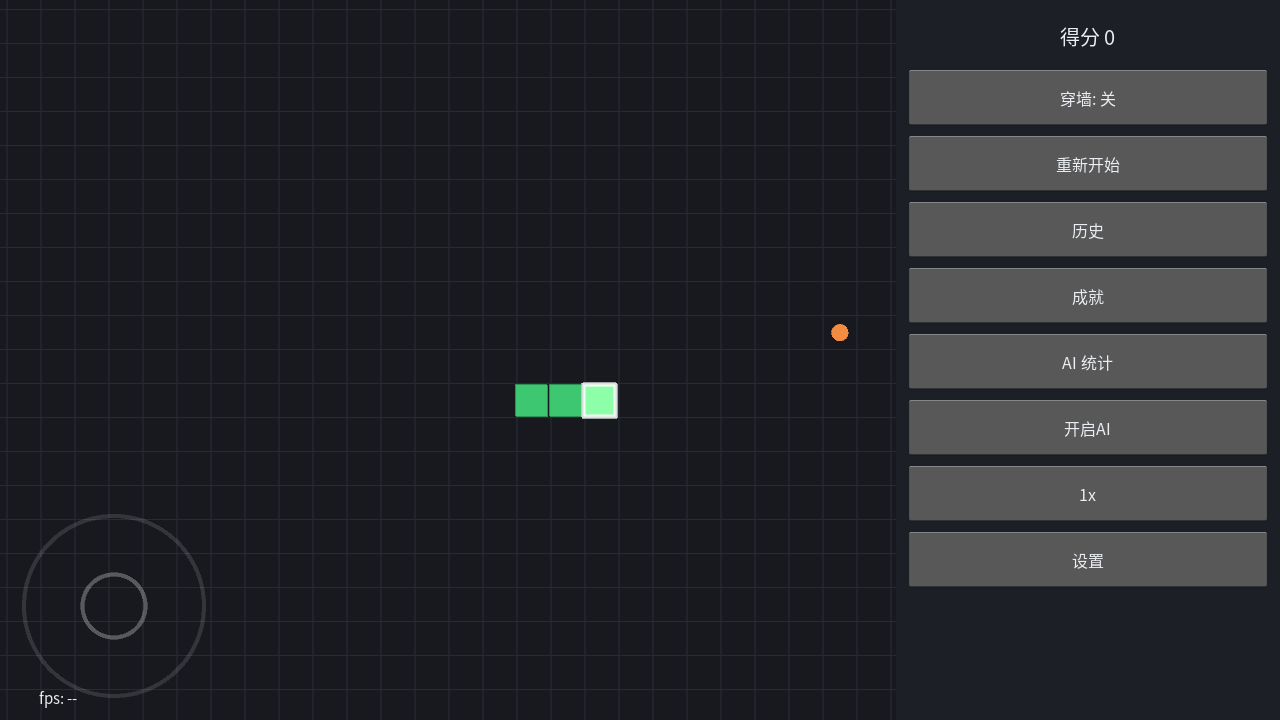
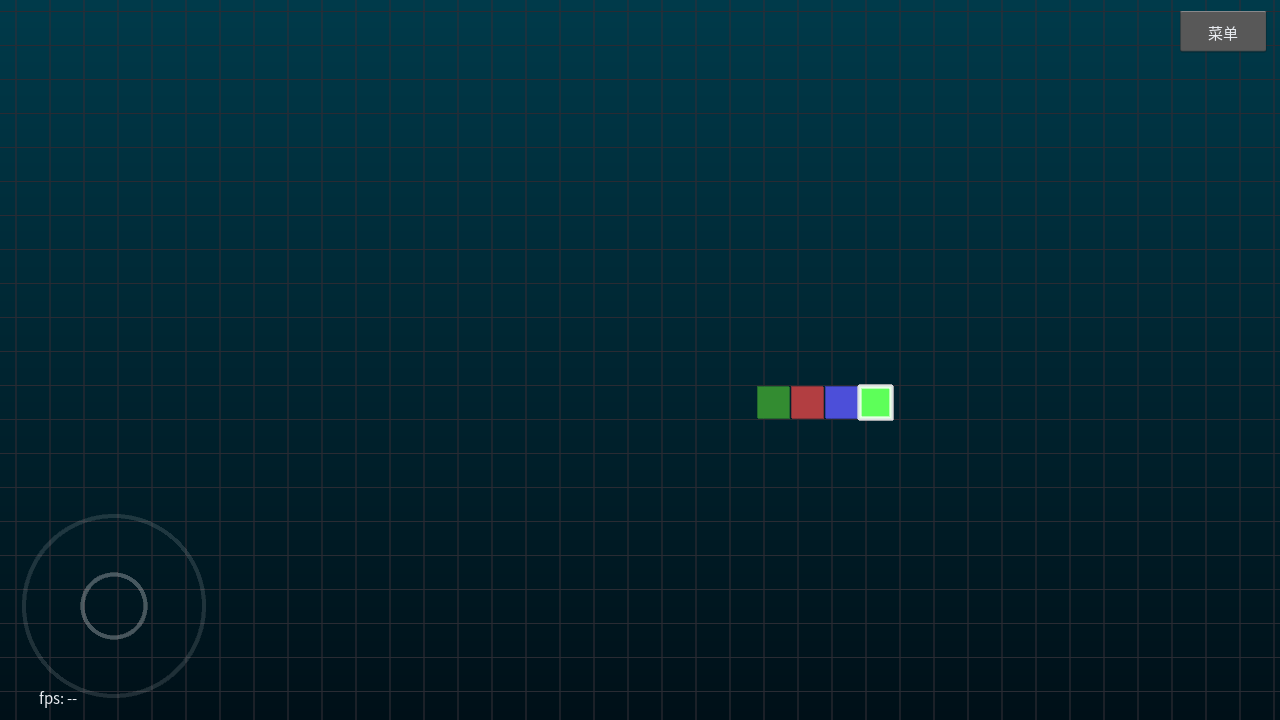
Immersive UI: smooth gradient texture, floating menu, view_scale setting

diff --git a/src/app/app.py b/src/app/app.py
@@ -52,6 +52,7 @@ from data.achievements import evaluate
 from view.confirm_dialog import ConfirmDialog
 from view.debug_overlay import DebugOverlay
 from view.fps_label import FpsLabel
+from view.menu import MenuButton, Scrim
 from view.replay_panel import ReplayPanel
 from view.stats_panel import StatsPanel
 from view.history_panel import HistoryPanel
@@ -103,6 +104,7 @@ class SnakeApp(App):
     confirm_shot = False
     replaypause_shot = False
     bg_demo = False
+    menu_shot = False
     theme_override: str | None = None
     font_override: float | None = None
 
@@ -163,7 +165,7 @@ class SnakeApp(App):
             self.session = AISession()
             self.game.tick_listeners.append(self._ai_tick)
         self.canvas_widget = GameCanvas(self.game)
-        self.canvas_widget.size_hint = (0.70, 1.0)
+        self.canvas_widget.size_hint = (1.0, 1.0)
         self.canvas_widget.pos_hint = {"x": 0, "y": 0}
         self.canvas_widget.on_direction = self._on_direction
 
@@ -176,11 +178,14 @@ class SnakeApp(App):
             on_ai=self._toggle_ai,
             on_speed=self._cycle_speed,
         )
-        self.panel.size_hint = (0.30, 1.0)
+        self.panel.size_hint = (0.34, 1.0)
         self.panel.pos_hint = {"right": 1, "y": 0}
+        self.panel.opacity = 0
+        self.panel.disabled = True
 
         self.canvas_widget.set_theme(self.cfg.get("theme", "dark"))
         self.canvas_widget.set_background(self.cfg.get("bg_mode", "solid"), self.cfg.get("bg_index", 0))
+        self.canvas_widget.set_view_scale(float(self.cfg.get("view_scale", 1.0)))
         self.canvas_widget.apply_view_options(
             self.cfg.get("show_grid", True), self.cfg.get("head_highlight", True)
         )
@@ -192,12 +197,19 @@ class SnakeApp(App):
 
         root = FloatLayout()
         root.add_widget(self.canvas_widget)
+        self.scrim = Scrim(on_tap=self._close_menu, size_hint=(1, 1))
+        root.add_widget(self.scrim)
+        self.scrim.show(False)
         root.add_widget(self.panel)
+        self.menu_btn = MenuButton(on_toggle=self._toggle_menu,
+                                   pos_hint={'right': 0.99, 'top': 0.985})
+        root.add_widget(self.menu_btn)
         self.root_layout = root
         self.debug_overlay = DebugOverlay(pos_hint={'x': 0.30, 'top': 0.98})
         self.fps_label = FpsLabel(pos=(10, 10))
         root.add_widget(self.fps_label)
         self.canvas_widget.set_background(self.cfg.get('bg_mode', 'solid'), self.cfg.get('bg_index', 0))
+        self.canvas_widget.set_view_scale(float(self.cfg.get('view_scale', 1.0)))
         root.add_widget(self.debug_overlay)
         self._apply_theme()
         # 布局完成后再刷一次文案：面板首次创建时宽度为 0，纹理会按 0 宽缓存
@@ -245,6 +257,9 @@ class SnakeApp(App):
             if self.pause_shot:
                 Clock.schedule_once(lambda _dt: self._toggle_pause(), 0.4)
                 Clock.schedule_once(lambda _dt: self._shot("pause"), 0.9)
+            if self.menu_shot:
+                Clock.schedule_once(lambda _dt: self._toggle_menu(), 0.4)
+                Clock.schedule_once(lambda _dt: self._shot("menu"), 0.9)
             if self.replay_shot:
                 self.canvas_widget.overlay_text = f"{strings.t('replay')} 12/120 1x"
                 Clock.schedule_once(lambda _dt: self._shot("replay"), 0.8)
@@ -320,6 +335,7 @@ class SnakeApp(App):
         self._save_event = Clock.schedule_once(self._flush_save, 0.5)
         self.canvas_widget.set_theme(self.cfg.get("theme", "dark"))
         self.canvas_widget.set_background(self.cfg.get("bg_mode", "solid"), self.cfg.get("bg_index", 0))
+        self.canvas_widget.set_view_scale(float(self.cfg.get("view_scale", 1.0)))
         self.canvas_widget.apply_view_options(
             self.cfg.get("show_grid", True), self.cfg.get("head_highlight", True)
         )
@@ -389,6 +405,20 @@ class SnakeApp(App):
         except Exception:
             pass
 
+    def _toggle_menu(self) -> None:
+        opened = self.panel.opacity > 0.5
+        if opened:
+            self._close_menu()
+        else:
+            self.panel.opacity = 1
+            self.panel.disabled = False
+            self.scrim.show(True)
+
+    def _close_menu(self) -> None:
+        self.panel.opacity = 0
+        self.panel.disabled = True
+        self.scrim.show(False)
+
     def _toggle_ai(self) -> None:
         if self.session is None:
             self.session = AISession()
@@ -421,6 +451,7 @@ class SnakeApp(App):
         colors = palette(self.cfg.get("theme", "dark"))
         self.canvas_widget.set_theme(self.cfg.get("theme", "dark"))
         self.canvas_widget.set_background(self.cfg.get("bg_mode", "solid"), self.cfg.get("bg_index", 0))
+        self.canvas_widget.set_view_scale(float(self.cfg.get("view_scale", 1.0)))
         self.panel.apply_theme(colors)
         for name in ("settings_overlay", "history_overlay", "achievements_overlay",
                      "stats_overlay", "replay_overlay", "confirm_overlay"):

diff --git a/src/view/game_canvas.py b/src/view/game_canvas.py
@@ -15,7 +15,8 @@ from kivy.uix.widget import Widget
 from app import constants as C
 from app import strings
 from app.theme import palette
-from core.colors import background_color, gradient_pair, snake_gradient
+from core.colors import background_color, snake_gradient
+from view.gradient_bg import gradient_texture
 from app.fonts import font_name
 from core.camera import Camera
 from core.game import Game
@@ -49,6 +50,7 @@ class GameCanvas(Widget):
         self.bg_mode = "solid"
         self.bg_index = 0
         self.snake_hue = 0.33
+        self.view_scale = 1.0
         self._cells_buf: list = []                 # R5A：蛇身插值缓冲复用
         self.colors = palette("dark")
         self.show_grid = True
@@ -83,7 +85,7 @@ class GameCanvas(Widget):
     def _apply_metrics(self) -> None:
         density = desktop.get_density()
         try:
-            self.grid_size = fit_grid_size(density, self.width, self.height)
+            self.grid_size = fit_grid_size(density * self.view_scale, self.width, self.height)
             self.too_small = False
         except ValueError as exc:
             self.grid_size = C.GRID_SIZE_MIN
@@ -186,12 +188,10 @@ class GameCanvas(Widget):
         g = vp.grid_size
         with self.canvas:
             if self.bg_mode == "gradient":
-                a, b = gradient_pair(self.bg_index)
-                Color(a[0], a[1], a[2], 1)
-                Rectangle(pos=(self.x, self.y + self.height / 2),
-                          size=(self.width, self.height / 2 + 1))
-                Color(b[0], b[1], b[2], 1)
-                Rectangle(pos=self.pos, size=(self.width, self.height / 2 + 1))
+                # 单张 256 行渐变纹理铺满：平滑无断层
+                Color(1, 1, 1, 1)
+                Rectangle(texture=gradient_texture(self.bg_index),
+                          pos=self.pos, size=self.size)
             else:
                 r, g, bl = background_color(self.bg_index)
                 Color(r, g, bl, 1)
@@ -328,10 +328,15 @@ class GameCanvas(Widget):
         old = vp.grid_size
         from platform_layer import desktop
 
-        new = fit_grid_size(desktop.get_density(), self.width, self.height)
+        new = fit_grid_size(desktop.get_density() * self.view_scale, self.width, self.height)
         if new != old:
             rescale_for_grid(cam, old, new)
             self.rebuild()
+
+    def set_view_scale(self, scale: float) -> None:
+        """视野大小：scale 越大格子越小、可见范围越大（0.6~2.0）。"""
+        self.view_scale = max(0.6, min(2.0, float(scale)))
+        self.rebuild()
 
     def set_background(self, mode: str, index: int) -> None:
         """背景选择：solid / gradient，index 0~15（实时重建）。"""

diff --git a/src/view/menu.py b/src/view/menu.py
@@ -1,0 +1,44 @@
+"""沉浸式 UI（模块二修正）：悬浮菜单按钮 + 半透明侧边栏 + 遮罩。"""
+
+from __future__ import annotations
+
+from kivy.uix.button import Button
+from kivy.uix.widget import Widget
+
+from app import strings
+from app.fonts import FONT_NAME
+
+
+class MenuButton(Button):
+    """右上角悬浮「菜单」按钮。"""
+
+    def __init__(self, on_toggle=None, **kw) -> None:
+        kw.setdefault("text", strings.t("menu"))
+        kw.setdefault("font_name", FONT_NAME)
+        kw.setdefault("font_size", 15.0)
+        kw.setdefault("size_hint", (None, None))
+        kw.setdefault("size", (88, 42))
+        super().__init__(**kw)
+        if on_toggle is not None:
+            self.bind(on_release=lambda *_: on_toggle())
+
+
+class Scrim(Widget):
+    """打开菜单时的半透明遮罩：点空白处关闭。"""
+
+    def __init__(self, on_tap=None, **kw) -> None:
+        super().__init__(**kw)
+        self._on_tap = on_tap
+        self.visible = False
+
+    def show(self, visible: bool) -> None:
+        self.visible = visible
+        self.opacity = 1.0 if visible else 0.0
+        self.disabled = not visible
+
+    def on_touch_down(self, touch) -> bool:
+        if not self.visible or not self.collide_point(*touch.pos):
+            return False
+        if self._on_tap is not None:
+            self._on_tap()
+        return True

diff --git a/src/view/gradient_bg.py b/src/view/gradient_bg.py
@@ -1,0 +1,39 @@
+"""真·平滑渐变背景（模块二修正）：生成纵向渐变纹理，一次铺满全屏。
+
+不再用两段矩形拼接（会出横线）。256 行逐行插值，GPU 线性过滤拉伸到任意尺寸。
+"""
+
+from __future__ import annotations
+
+from kivy.graphics.texture import Texture
+
+from core.colors import gradient_pair
+
+_CACHE: dict[int, Texture] = {}
+H = 256
+W = 8
+
+
+def gradient_texture(index: int) -> Texture:
+    index = int(index) % 16
+    tex = _CACHE.get(index)
+    if tex is not None:
+        return tex
+
+    top, bottom = gradient_pair(index)
+    buf = bytearray(W * H * 4)
+    for y in range(H):
+        t = y / (H - 1)
+        r = int(round((top[0] + (bottom[0] - top[0]) * t) * 255))
+        g = int(round((top[1] + (bottom[1] - top[1]) * t) * 255))
+        b = int(round((top[2] + (bottom[2] - top[2]) * t) * 255))
+        row = bytes((r, g, b, 255)) * W
+        buf[y * W * 4:(y + 1) * W * 4] = row
+
+    tex = Texture.create(size=(W, H))
+    tex.blit_buffer(bytes(buf), colorfmt="rgba", bufferfmt="ubyte")
+    tex.mag_filter = "linear"
+    tex.min_filter = "linear"
+    tex.wrap = "clamp_to_edge"
+    _CACHE[index] = tex
+    return tex

diff --git a/src/data/storage.py b/src/data/storage.py
@@ -28,6 +28,7 @@ DEFAULTS: dict = {
     "font_size": 16.0,
     "bg_mode": "solid",   # solid | gradient
     "bg_index": 0,
+    "view_scale": 1.0,
 }
 
 THEMES = ("dark", "light", "high_contrast")
@@ -75,6 +76,7 @@ def validate(raw: dict) -> dict:
     cfg["theme"] = theme if theme in THEMES else "dark"
     cfg["bg_mode"] = raw.get("bg_mode") if raw.get("bg_mode") in ("solid", "gradient") else "solid"
     cfg["bg_index"] = int(raw.get("bg_index", 0)) % 16
+    cfg["view_scale"] = _clamp(raw.get("view_scale", cfg["view_scale"]), 0.6, 2.0, cfg["view_scale"])
     mode = raw.get("perf_mode", cfg["perf_mode"])
     cfg["perf_mode"] = mode if mode in PERF_MODES else "balanced"
     return cfg

diff --git a/src/view/settings_panel.py b/src/view/settings_panel.py
@@ -42,6 +42,7 @@ LABEL_KEY = {
     "font_size": "font_size",
     "bg_mode": "bg",
     "bg_index": "bg_index",
+    "view_scale": "view_scale",
 }
 
 
@@ -149,6 +150,7 @@ class SettingsOverlay(ThemedMixin, BoxLayout):
         )
         self._choice_row("bg_mode", ("solid", "gradient"),
                          {"solid": strings.t("bg_solid"), "gradient": strings.t("bg_gradient")})
+        self._slider_row("view_scale", 0.6, 2.0)
         self._choice_row("bg_index", tuple(range(16)), {i: str(i) for i in range(16)})
         self._switch_row("show_fps")
         self._choice_row(

diff --git a/src/app/strings.py b/src/app/strings.py
@@ -40,6 +40,8 @@ ZH = {
     "bg_solid": "纯色",
     "bg_gradient": "渐变",
     "bg_index": "背景编号",
+    "menu": "菜单",
+    "view_scale": "视野大小",
     "ai_stats": "AI 统计",
     "ai_on": "开启AI",
     "ai_off": "手动接管",
@@ -115,6 +117,8 @@ EN = {
     "bg_solid": "Solid",
     "bg_gradient": "Gradient",
     "bg_index": "BG index",
+    "menu": "Menu",
+    "view_scale": "View size",
     "ai_stats": "AI stats",
     "ai_on": "Start AI",
     "ai_off": "Take over",

diff --git a/main.py b/main.py
@@ -99,6 +99,7 @@ def main() -> int:
     app.confirm_shot = "--confirmdemo" in sys.argv
     app.replaypause_shot = "--replaypause" in sys.argv
     app.bg_demo = "--bgdemo" in sys.argv
+    app.menu_shot = "--menu" in sys.argv
     for _arg in sys.argv:
         if _arg.startswith("--theme="):
             app.theme_override = _arg.split("=", 1)[1]
